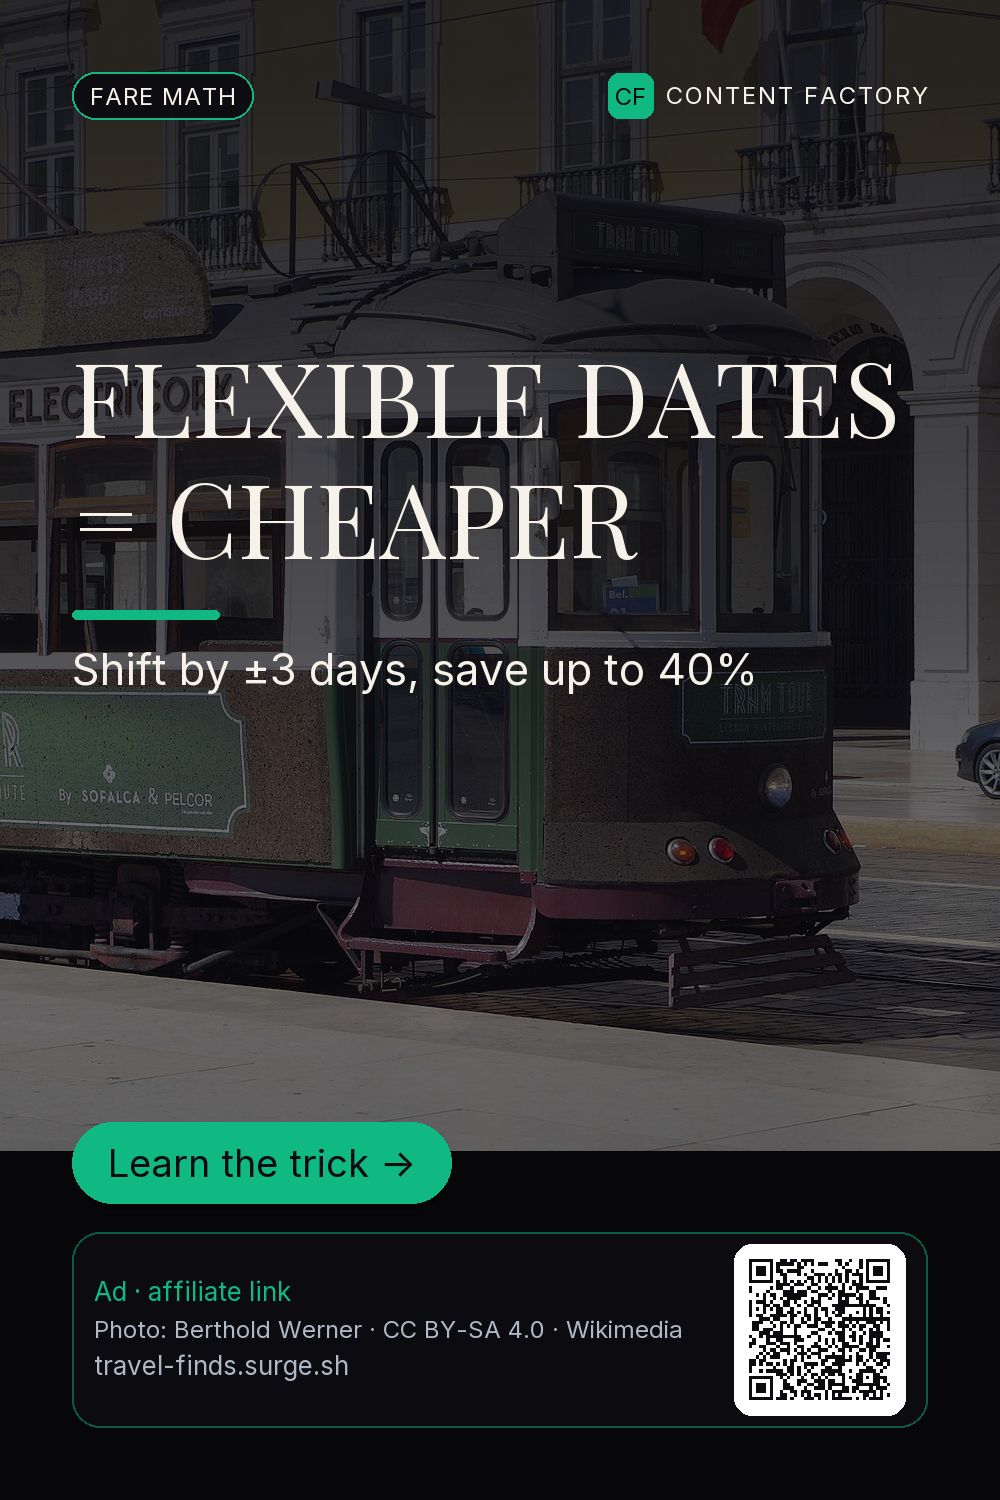
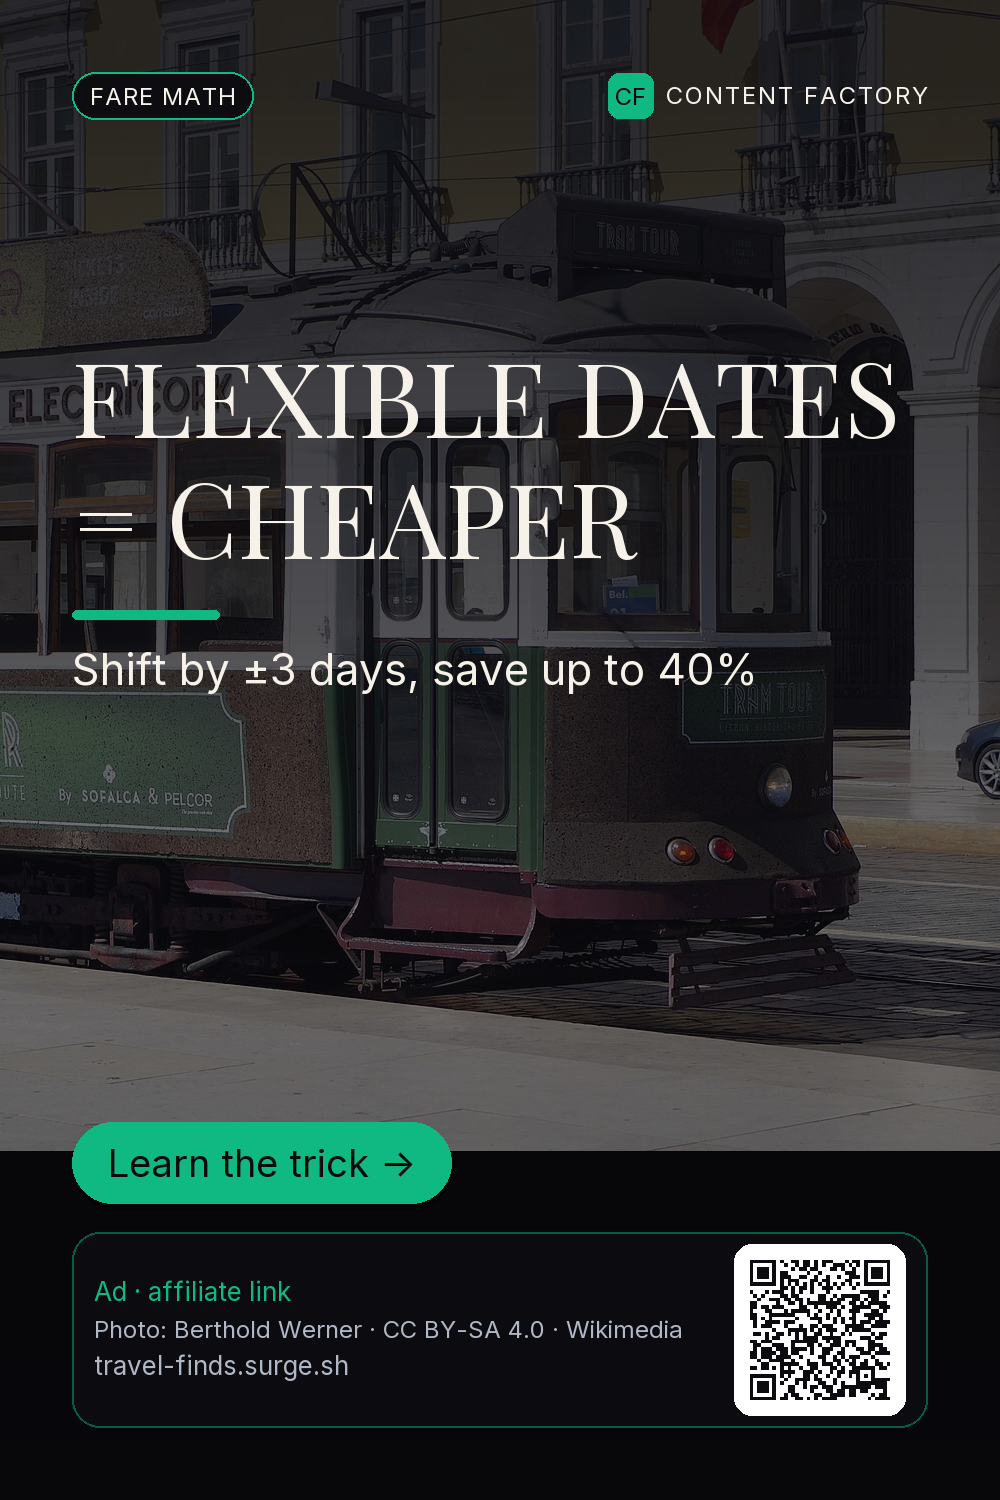
feat(pins): route pin links through the click tracker (pin-tf-* codes)
- every CSV/meta/QR link now uses links-tracker /r/<code> instead of a direct URL
- targets carry UTM (utm_source=pinterest&utm_medium=pin&utm_campaign=travel_finds)
- clicks are counted per pin by the self-hosted tracker

Changed region(s): [[0.744, 0.828, 0.899, 0.9507]]

diff --git a/scripts/build_travel_finds_pins.py b/scripts/build_travel_finds_pins.py
@@ -36,6 +36,7 @@ from content_factory.brand.design import (  # noqa: E402
 )
 
 SITE = "https://travel-finds.surge.sh"
+TRACKER = "https://links-tracker.valdislav-n.workers.dev/r/"
 OUT = ROOT / "docs" / "travel-finds" / "pins"
 PHOTOS = ROOT / "docs" / "assets" / "photos"
 DISCLOSURE = "Ad · affiliate link"
@@ -45,6 +46,16 @@ SITE_LABEL = "travel-finds.surge.sh"
 
 def source_link(source: str, medium: str) -> str:
     return f"{SITE}/?utm_source={source}&utm_medium={medium}&utm_campaign=travelfinds"
+
+
+#: short link code per pin (clicks counted in links-tracker, target carries UTM)
+CODES = {
+    "pin-01-search-dates": "pin-tf-search-dates",
+    "pin-02-europe-300": "pin-tf-europe-300",
+    "pin-03-flexible": "pin-tf-flexible",
+    "pin-04-book-window": "pin-tf-book-window",
+    "pin-05-train-bus-plane": "pin-tf-transport",
+}
 
 
 PINS = [
@@ -188,13 +199,13 @@ def main() -> int:
     credits_path = PHOTOS / "credits.json"
     credits = json.loads(credits_path.read_text(encoding="utf-8")) if credits_path.exists() else {}
     OUT.mkdir(parents=True, exist_ok=True)
-    link = source_link("pinterest", "organic")
     rows, meta = [], []
     for pin in PINS:
         photo_path = PHOTOS / f"{pin['photo']}.jpg"
         if not photo_path.exists():
             print(f"photo missing: {photo_path}", file=sys.stderr)
             return 2
+        link = TRACKER + CODES[pin["slug"]]
         content = PinContent(
             niche="travel",
             headline=pin["headline"],
